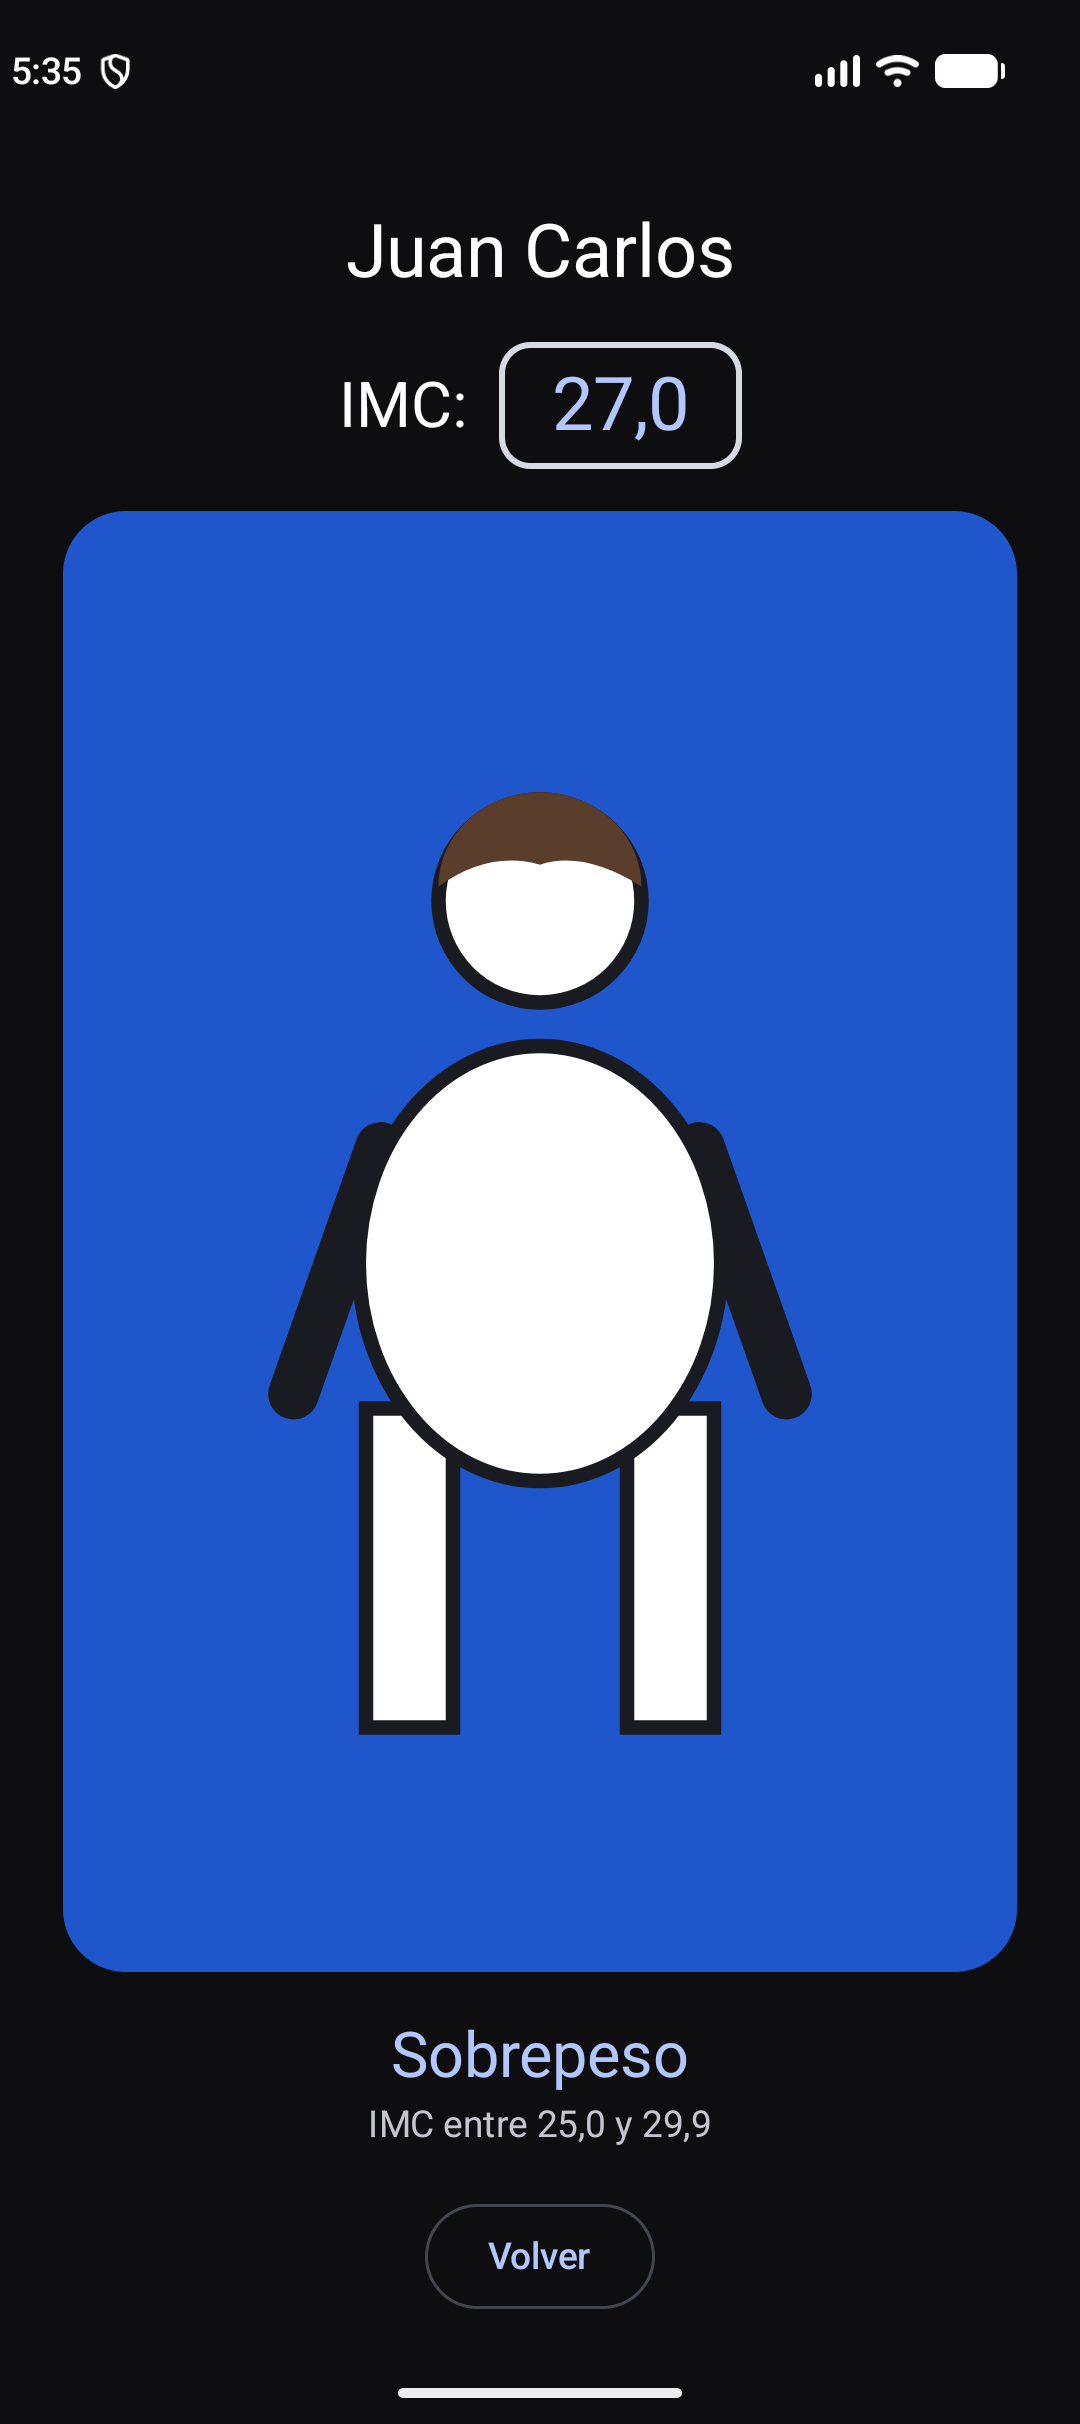
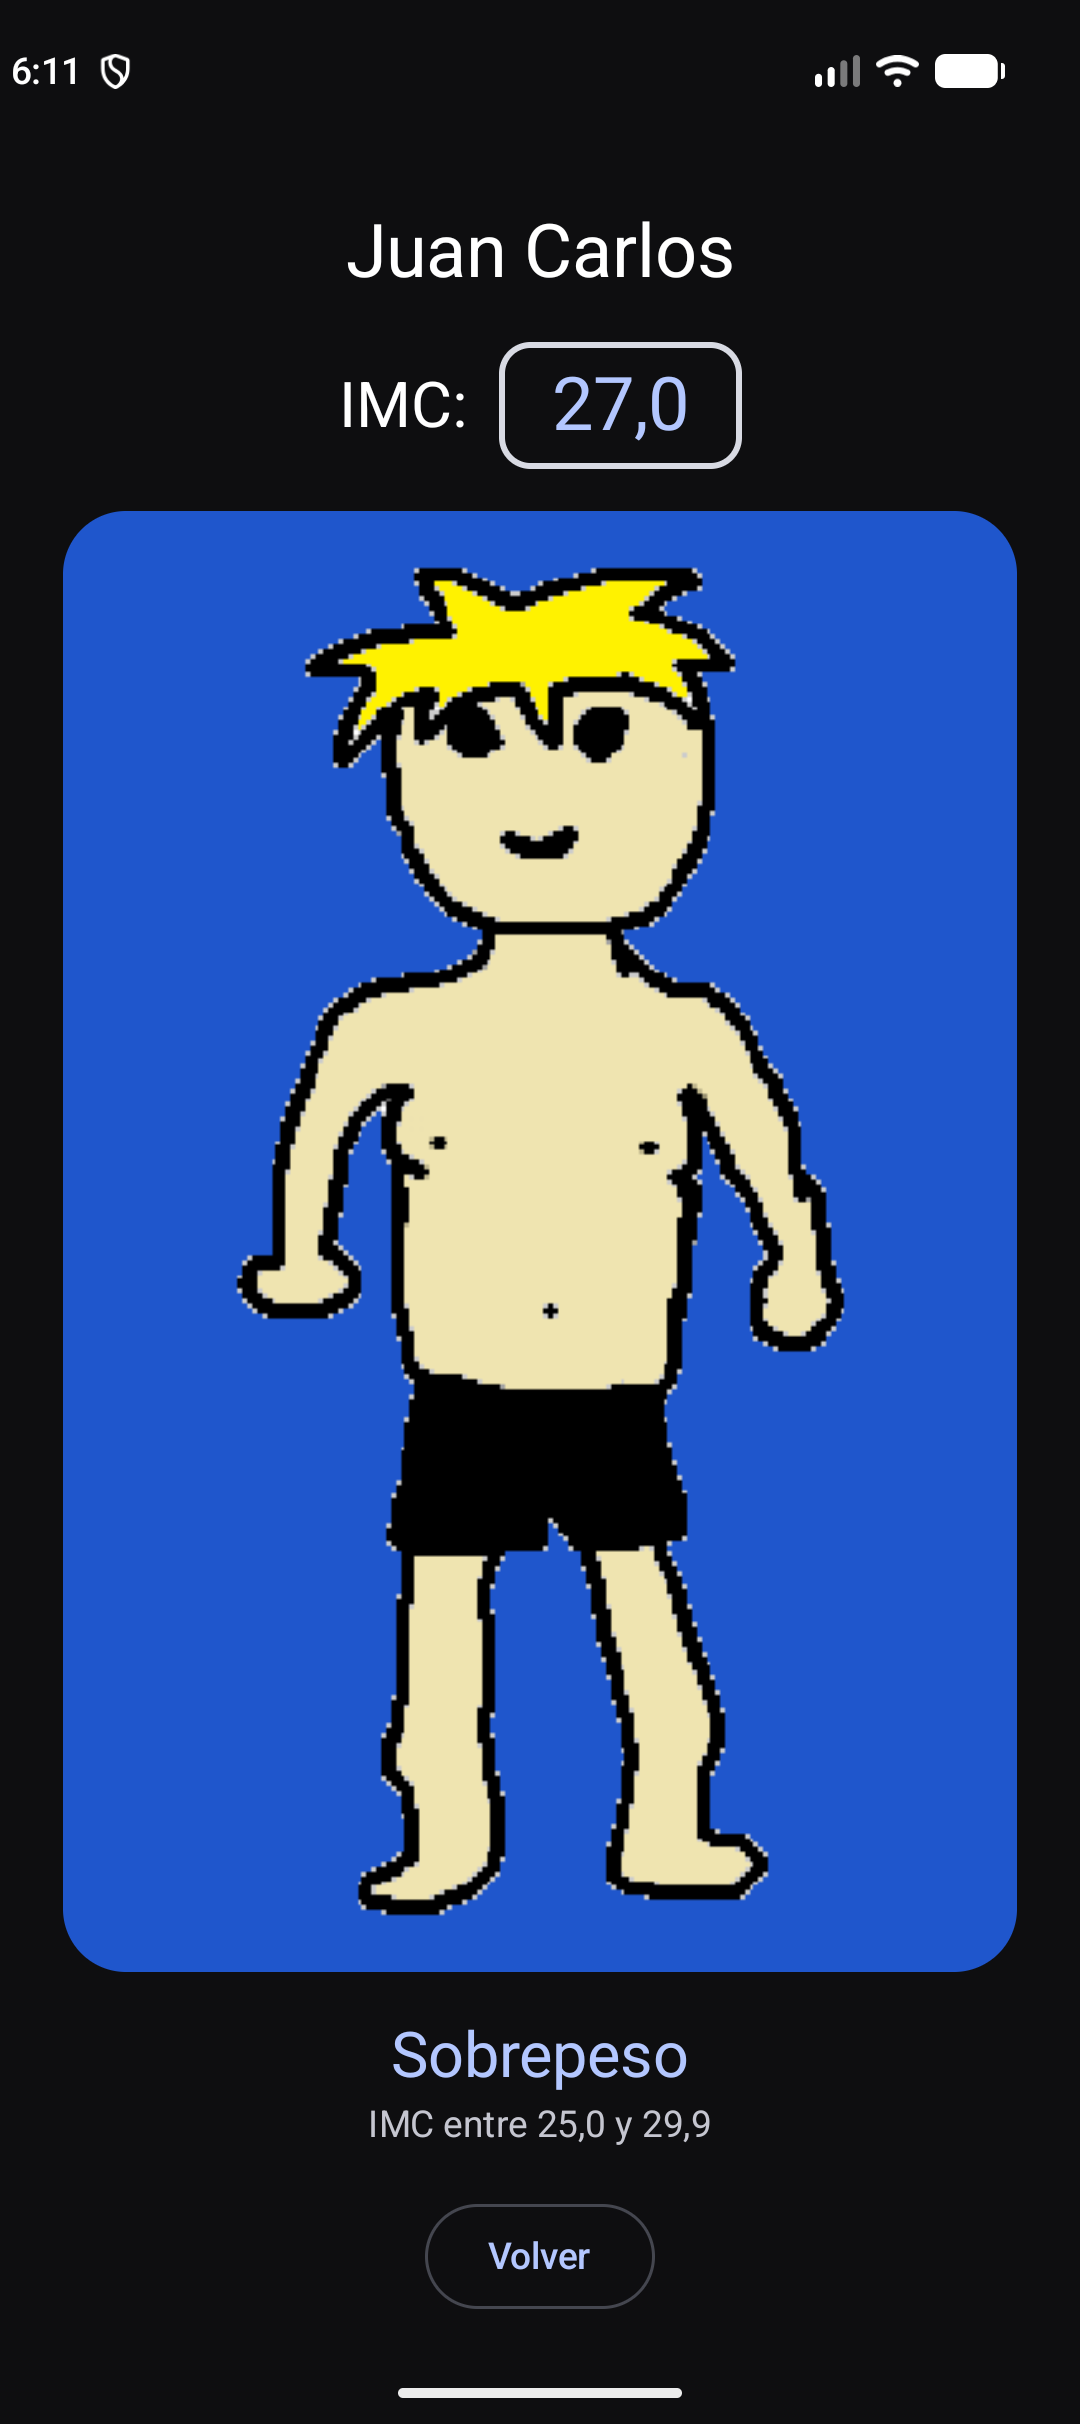
Dibujos definitivos de hombre para las 6 categorías
Sustituyen a los muñecos provisionales. Fondo blanco quitado y recortados al contenido.

Changed region(s): [[0.2139, 0.2166, 0.7944, 0.8045]]

diff --git a/README.md b/README.md
@@ -78,11 +78,11 @@ com.gonzalo.calculadora_imc
 
 ## Cambiar las ilustraciones
 
-Los muñecos actuales son **provisionales**. Hay 12 archivos en `app/src/main/res/drawable`, uno por categoría y por sexo:
+Hay 12 dibujos en `app/src/main/res/drawable`, uno por categoría y por sexo:
 
 ```
-imc_hombre_1.xml … imc_hombre_6.xml
-imc_mujer_1.xml  … imc_mujer_6.xml
+imc_hombre_1.png … imc_hombre_6.png   → dibujos definitivos, hechos a mano
+imc_mujer_1.xml  … imc_mujer_6.xml    → muñecos provisionales
 ```
 
 El número es la columna **#** de la tabla de arriba (1 = Bajo peso … 6 = Obesidad de grado III).
